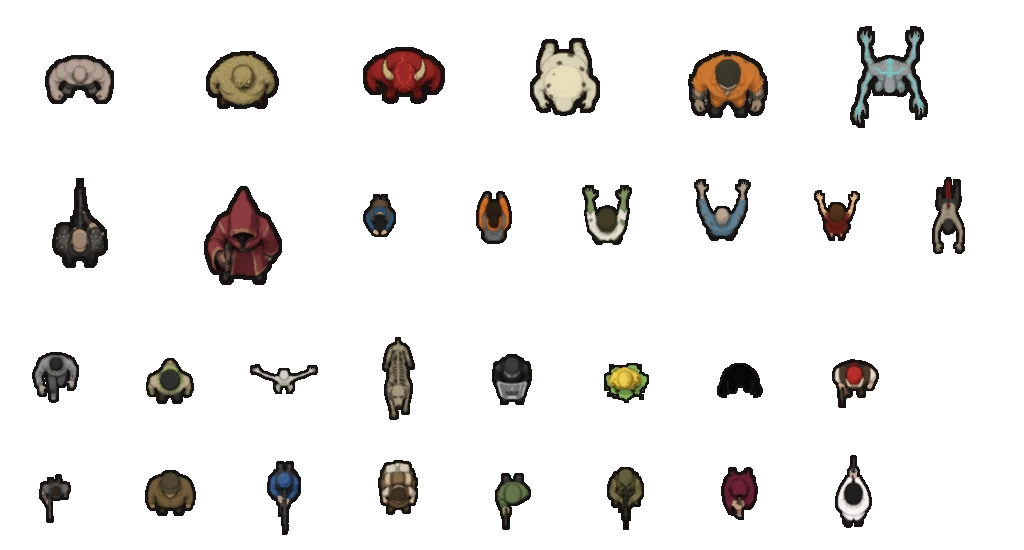
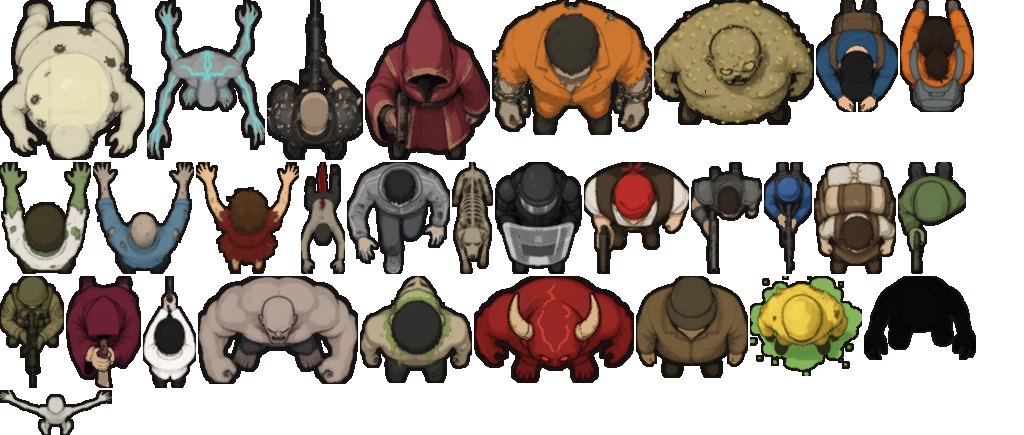
Guns drawn properly in the hands, muzzle-accurate shots, facing fixes
- Detailed top-down guns held in both hands: pistol slide, revolver cylinder,
  SMG/rifle magazines and red-dot, shotgun pump, sniper scope, launcher and
  bazooka tubes on the shoulder, crossbow limbs and string, flamethrower tank;
  guns kick back when fired
- Tracers and muzzle flashes start at the drawn muzzle at sprite height
- Characters are cropped to the solid figure (players were tiny) and each
  sprite's facing is corrected so everyone looks where they aim
- Shadows are the figure's own silhouette along the sun

diff --git a/game/sv/render.js b/game/sv/render.js
@@ -9,7 +9,7 @@ const V = {
 };
 
 // ── generated art (item icons, portraits, illustrations) ──────────────────
-const ART_V = 7; // bump when assets/ change so browsers refetch
+const ART_V = 9; // bump when assets/ change so browsers refetch
 const ART = { items: null, im: {}, por: null, pm: {}, scenes: {}, sceneSrc: {} };
 function loadArt() {
   if (typeof fetch !== 'function' || typeof Image === 'undefined') return;
@@ -423,7 +423,7 @@ function draw(dtReal) {
   // particles / tracers / floaters
   for (const t of V.tracers) {
     g.globalAlpha = 1 - t.t / t.life; g.strokeStyle = t.c === 2 ? '#bfe6ff' : t.c === 3 ? '#ff9a40' : '#ffe9a0'; g.lineWidth = t.c === 2 ? 3 : t.c === 3 ? 2.2 : 1.6;
-    g.beginPath(); g.moveTo(t.x1 * TILE, t.y1 * TILE - 14); g.lineTo(t.x2 * TILE, t.y2 * TILE - 14); g.stroke();
+    const oy = CHR.img ? 8 : 14; g.beginPath(); g.moveTo(t.x1 * TILE, t.y1 * TILE - oy); g.lineTo(t.x2 * TILE, t.y2 * TILE - oy); g.stroke();
   }
   g.globalAlpha = 1;
   for (const p of V.parts) drawPart(g, p);
@@ -438,7 +438,7 @@ function draw(dtReal) {
   g.textAlign = 'center';
   for (const e of viewEnts) drawEntLabel(g, e);
   for (const p of G.players) if (p && p.joined && !p.dead) {
-    g.font = 'bold 11px system-ui, sans-serif'; g.fillStyle = p.color; g.fillText(p.name, p.x * TILE, p.y * TILE - 46);
+    g.font = 'bold 11px system-ui, sans-serif'; g.fillStyle = p.color; g.fillText(p.name, p.x * TILE, p.y * TILE - (CHR.img ? 36 : 46));
     if (p.down) { g.fillStyle = '#ff6b5c'; g.fillText(`쓰러짐 ${Math.ceil(p.downT)}s`, p.x * TILE, p.y * TILE - 58); }
   }
   for (const n of V.dmgNums) {
@@ -1029,9 +1029,8 @@ function drawPlayer(g, p) {
     drawChar(g, pk, bx, by, p.angle + twist, 48, { walk: p.walk * 0.8, flash: p.flash > 0, down: p.down });
     if (!p.down) {
       if (ms) drawMeleeWeapon(g, p.wpn, bx * TILE + Math.cos(p.angle + ms.off) * 9, by * TILE - 8 + Math.sin(p.angle + ms.off) * 9, p.angle + ms.off, ms);
-      else { const a = p.angle + twist, hx = bx * TILE + Math.cos(a) * 8, hy = by * TILE - 8 + Math.sin(a) * 8;
-        g.strokeStyle = 'rgba(0,0,0,.6)'; g.lineWidth = gl[2] + 2; g.lineCap = 'butt'; g.beginPath(); g.moveTo(hx, hy); g.lineTo(hx + Math.cos(a) * gl[0], hy + Math.sin(a) * gl[0]); g.stroke();
-        g.strokeStyle = gl[1]; g.lineWidth = gl[2]; g.beginPath(); g.moveTo(hx, hy); g.lineTo(hx + Math.cos(a) * gl[0], hy + Math.sin(a) * gl[0]); g.stroke(); }
+      else { const a = p.angle + twist, kick = Math.max(0, p.fireT || 0) > 0 && WEAPONS[p.wpn].rate ? Math.min(1, p.fireT / WEAPONS[p.wpn].rate) * 3 : 0;
+        drawGun(g, p.wpn, bx * TILE - Math.cos(a) * kick, by * TILE - 8 - Math.sin(a) * kick, a); }
     }
     if (p.in && p.in.crouch && !p.down) { g.fillStyle = 'rgba(160,200,255,.7)'; g.font = '10px system-ui'; g.textAlign = 'center'; g.fillText('은신', p.x * TILE, p.y * TILE + 22); }
     return;
@@ -1051,6 +1050,27 @@ function drawPlayer(g, p) {
     if (!behind) drawMeleeWeapon(g, p.wpn, hx, hy, a, ms || { ext: 0, k: 0, trail: 0 });
   } else drawBody(g, bx, by, p.angle + twist, { r: 0.34, body: p.color, head: '#f0c9a0', hat: '#2a2a2a', walk: p.walk, flash: p.flash > 0, gun: true, gunLen: gl[0], gunCol: gl[1], gunW: gl[2], legs: '#2a2a3a', down: p.down });
   if (p.in && p.in.crouch && !p.down) { g.fillStyle = 'rgba(160,200,255,.7)'; g.font = '10px system-ui'; g.textAlign = 'center'; g.fillText('은신', p.x * TILE, p.y * TILE + 16); }
+}
+// ── guns seen from above, held in front of the body (muzzle distances match MUZZLE) ──
+function drawGun(g, wid, x, y, a) {
+  g.save(); g.translate(x, y); g.rotate(a);
+  const ol = 'rgba(12,10,8,.85)';
+  const R = (x0, y0, w, h, c, r = 1) => { g.fillStyle = ol; roundRect(g, x0 - 1, y0 - 1, w + 2, h + 2, r + 1); g.fill(); g.fillStyle = c; roundRect(g, x0, y0, w, h, r); g.fill(); };
+  const hand = (hx, hy) => { g.fillStyle = ol; g.beginPath(); g.arc(hx, hy, 3.4, 0, TAU); g.fill(); g.fillStyle = '#e0b890'; g.beginPath(); g.arc(hx, hy, 2.5, 0, TAU); g.fill(); };
+  switch (wid) {
+    case 'pistol': R(9, -2, 11, 4, '#2a2c30'); R(10, -1.2, 9, 1.4, '#4a4e54', 0); hand(10, 0); break;
+    case 'revolver': R(9, -2, 12, 4, '#3a3c40'); g.fillStyle = ol; g.beginPath(); g.arc(13, 0, 3.6, 0, TAU); g.fill(); g.fillStyle = '#6a6e74'; g.beginPath(); g.arc(13, 0, 2.6, 0, TAU); g.fill(); hand(10, 0); break;
+    case 'smg': R(4, -3, 15, 6, '#2a2c2e', 2); R(18, -1.2, 6, 2.4, '#1a1a1a', 0); R(10, 3, 3, 5, '#3a3a3a', 0); R(7, -1, 7, 2, '#4a4e54', 0); hand(6, 2); hand(14, -2); break;
+    case 'rifle': R(-4, -2.5, 8, 5, '#1e1e20', 2); R(4, -3, 16, 6, '#2a2e26', 2); R(19, -1.2, 12, 2.4, '#151515', 0); R(10, 3, 4, 6, '#2a2a2a', 0); R(8, -1.4, 4, 2.8, '#c84030', 0); hand(6, 2); hand(17, -2); break;
+    case 'shotgun': R(-5, -2.5, 10, 5, '#6a4426', 2); R(5, -2.5, 10, 5, '#2a2a2c', 1); R(14, -1.6, 18, 3.2, '#1c1c1e', 0); R(17, -3, 7, 6, '#7a5030', 2); hand(5, 2); hand(20, 0); break;
+    case 'sniper': R(-7, -2.5, 10, 5, '#3a3020', 2); R(3, -2.5, 14, 5, '#2a3020', 1); R(16, -1, 22, 2, '#151515', 0); R(5, -2.2, 12, 4.4, '#101214', 2); g.fillStyle = '#5ac8ff'; g.fillRect(16, -1.5, 1.5, 3); hand(4, 2); hand(14, -2); break;
+    case 'launcher': R(-10, -4, 44, 8, '#4a5a3a', 3); R(30, -5, 5, 10, '#2a3220', 1); R(-10, -5, 4, 10, '#2a3220', 1); R(6, -6.5, 5, 3, '#2a2a2a', 0); hand(4, 4); hand(14, 4); break;
+    case 'bazooka': R(-12, -5, 48, 10, '#556b3a', 4); R(32, -6, 5, 12, '#2e3820', 1); R(-12, -6, 5, 12, '#2e3820', 1); R(8, -8, 6, 4, '#2a2a2a', 0); g.fillStyle = 'rgba(255,255,255,.15)'; g.fillRect(-8, -4, 38, 2); hand(4, 5); hand(16, 5); break;
+    case 'crossbow': R(2, -2, 20, 4, '#6a4426', 1); g.strokeStyle = ol; g.lineWidth = 3.5; g.beginPath(); g.arc(17, 0, 11, -1.15, 1.15); g.stroke(); g.strokeStyle = '#3a3a3e'; g.lineWidth = 2; g.stroke(); g.strokeStyle = '#ddd'; g.lineWidth = 0.8; g.beginPath(); g.moveTo(21.5, -10); g.lineTo(9, 0); g.lineTo(21.5, 10); g.stroke(); R(9, -0.6, 17, 1.2, '#c8c8c8', 0); hand(6, 0); break;
+    case 'flamer': g.fillStyle = ol; g.beginPath(); g.arc(-6, 0, 6.5, 0, TAU); g.fill(); g.fillStyle = '#a03020'; g.beginPath(); g.arc(-6, 0, 5.5, 0, TAU); g.fill(); R(2, -3, 16, 6, '#3a3a3c', 2); R(17, -1.6, 11, 3.2, '#5a5a5e', 0); g.fillStyle = '#ff8a30'; g.beginPath(); g.arc(28, 0, 1.6, 0, TAU); g.fill(); hand(6, 2); hand(14, -2); break;
+    default: R(9, -2, 11, 4, '#2a2c30'); hand(10, 0);
+  }
+  g.restore();
 }
 // ── melee animation ─────────────────────────────────────────────────────────
 // sweep: slash across the arc; thrust: stab straight out; buzz: chainsaw held out, shaking
@@ -1150,7 +1170,7 @@ function drawEntLabel(g, e) {
 function drawPart(g, p) {
   const k = p.t / p.life, x = p.x * TILE, y = p.y * TILE;
   switch (p.k) {
-    case 'flash': { const r = p.big ? 13 : 8, fx2 = x + Math.cos(p.a) * 10, fy2 = y - 14 + Math.sin(p.a) * 6;
+    case 'flash': { const r = p.big ? 13 : 8, fx2 = x + Math.cos(p.a) * 3, fy2 = y - (CHR.img ? 8 : 14) + Math.sin(p.a) * 3;
       g.fillStyle = 'rgba(255,200,90,.55)'; g.beginPath(); g.arc(fx2, fy2, r * 1.6, 0, TAU); g.fill();
       g.fillStyle = '#fff6b0'; g.beginPath(); g.moveTo(fx2 + Math.cos(p.a) * r * 2.2, fy2 + Math.sin(p.a) * r * 2.2); g.lineTo(fx2 + Math.cos(p.a + 1.6) * r * 0.7, fy2 + Math.sin(p.a + 1.6) * r * 0.7); g.lineTo(fx2 + Math.cos(p.a - 1.6) * r * 0.7, fy2 + Math.sin(p.a - 1.6) * r * 0.7); g.fill();
       g.fillStyle = '#fff'; g.beginPath(); g.arc(fx2, fy2, r * 0.5, 0, TAU); g.fill(); break; }

diff --git a/game/sv/sim.js b/game/sv/sim.js
@@ -414,7 +414,7 @@ function gameOver(reason) {
 }
 
 // hitscan: walls stop it, player-side bullets pass over own structures, others hit them
-function hitscan(sh, x, y, a, range, dmg, pierce = 1, color) {
+function hitscan(sh, x, y, a, range, dmg, pierce = 1, color, vis) {
   const dx = Math.cos(a), dy = Math.sin(a);
   let structHit = null;
   const wallD = rayCells(x, y, dx, dy, range, (i, t) => {
@@ -440,12 +440,14 @@ function hitscan(sh, x, y, a, range, dmg, pierce = 1, color) {
   }
   if (structHit && hits.length < pierce) damageStruct(structHit, dmg, sh);
   else if (!hits.length && end < range && SR.chance(0.4)) fx({ k: 'spark', x: x + dx * end, y: y + dy * end });
-  fx({ k: 'tr', x1: +x.toFixed(2), y1: +y.toFixed(2), x2: +(x + dx * end).toFixed(2), y2: +(y + dy * end).toFixed(2), c: color || 0 });
+  const vx = vis && end > vis ? x + dx * vis : x, vy = vis && end > vis ? y + dy * vis : y;
+  fx({ k: 'tr', x1: +vx.toFixed(2), y1: +vy.toFixed(2), x2: +(x + dx * end).toFixed(2), y2: +(y + dy * end).toFixed(2), c: color || 0 });
 }
 
 function fireGun(sh, wid, a, opt = {}) {
   const w = WEAPONS[wid];
   const mx = sh.x + Math.cos(a) * 0.45, my = sh.y + Math.sin(a) * 0.45;
+  const vis = (sh.cat === 'player' ? (MUZZLE[wid] || 20) : 18) / TILE - 0.45; // tracer starts at the drawn muzzle
   const dmg = (sh.cat === 'player' ? wstat(wid, 'dmg') * (1 + 0.08 * perk(sh, 'aim')) : w.dmg) * (opt.dmgMul || 1);
   const mine = sh.cat === 'player';
   const spread = w.spread * (opt.spreadMul || 1) * (sh.in && sh.in.crouch ? 0.6 : 1) * (mine && hasSkill(wid, 'tight') ? 0.6 : 1) * (mine ? 1 - 0.08 * perk(sh, 'aim') : 1);
@@ -463,10 +465,10 @@ function fireGun(sh, wid, a, opt = {}) {
     const n = w.pellets || 1;
     for (let k = 0; k < n; k++) {
       const aa = a + (SR.f() + SR.f() - 1) * spread;
-      hitscan(sh, mx, my, aa, w.range * rangeK * (n > 1 ? SR.r(0.75, 1) : 1), dmg, (w.pierce || 1) + pierceAdd, wid === 'sniper' ? 2 : mine && hasSkill(wid, 'incend') ? 3 : 0);
+      hitscan(sh, mx, my, aa, w.range * rangeK * (n > 1 ? SR.r(0.75, 1) : 1), dmg, (w.pierce || 1) + pierceAdd, wid === 'sniper' ? 2 : mine && hasSkill(wid, 'incend') ? 3 : 0, vis);
     }
   }
-  fx({ k: 'flash', x: +mx.toFixed(2), y: +my.toFixed(2), a: +a.toFixed(2), pid: sh.cat === 'player' ? sh.pid : -1, w: wid });
+  fx({ k: 'flash', x: +(mx + Math.cos(a) * vis).toFixed(2), y: +(my + Math.sin(a) * vis).toFixed(2), a: +a.toFixed(2), pid: sh.cat === 'player' ? sh.pid : -1, w: wid });
   sfxAt(wid, sh.x, sh.y);
   makeNoise(sh.x, sh.y, w.noise * (sh.in && sh.in.crouch ? 0.7 : 1), sh);
 }

diff --git a/game/sv/terrain.js b/game/sv/terrain.js
@@ -266,7 +266,11 @@ function drawChar(g, key, x, y, ang, size, o = {}) {
     g.globalAlpha = 1; o = { ...o, alpha: (o.alpha === undefined ? 1 : o.alpha) * 0.78, scale: (o.scale || 1) * 0.9 };
   }
   const k = size / Math.max(r[2], r[3]), w = r[2] * k * (o.scale || 1) * (1 + bob * 0.035), h = r[3] * k * (o.scale || 1) * (1 - bob * 0.02);
-  g.fillStyle = 'rgba(0,0,0,.32)'; g.beginPath(); g.ellipse(px + 3, py + 11, w * 0.42, w * 0.22, 0, 0, TAU); g.fill();
+  { // the figure's own silhouette, cast a few px along the sun
+    const [sx2, sy2] = sunOffset(4);
+    g.save(); g.translate(px + sx2, py + sy2 + 2); g.rotate(ang + Math.PI / 2 + (r[4] === 2 ? Math.PI : 0) + (o.down ? 1.4 : 0)); g.globalAlpha = 0.3 * (o.alpha === undefined ? 1 : o.alpha);
+    g.drawImage(chrTint(key, '#000000'), -w / 2, -h / 2, w, h); g.restore();
+  }
   g.save();
   if (r[4] === 1 && !o.down) { // upright 3/4 sprite: stand it up, mirror toward the facing side, lean with the stride
     const flip = Math.cos(ang) < -0.15 ? -1 : 1;

diff --git a/game/sv/defs.js b/game/sv/defs.js
@@ -73,6 +73,8 @@ const PERKS_LV = {
   endure: { name: '지구력',   desc: '기력 소모 -15%, 허기 -10%' },
 };
 const PERK_MAX = 5;
+// distance in px from a top-down character's centre to its gun's muzzle (matches drawGun)
+const MUZZLE = { pistol: 20, revolver: 21, smg: 24, shotgun: 32, rifle: 31, sniper: 38, launcher: 34, bazooka: 36, crossbow: 26, flamer: 28 };
 const xpNeed = lvl => 60 + lvl * 40;
 // weapon skills: one-time unlocks per weapon at the workbench
 const WSKILLS = {

diff --git a/tools/art-gen/pack4.py b/tools/art-gen/pack4.py
@@ -1,4 +1,5 @@
 """Pack art set v3: top-down character sprites into assets/chr.webp and add them to art.json."""
+import numpy as np
 import os, sys, json
 sys.path.insert(0, os.path.join(os.path.dirname(os.path.abspath(__file__)), '..', 'v2'))
 sys.path.insert(0, os.path.dirname(os.path.abspath(__file__)))
@@ -43,7 +44,10 @@ imgs = {}
 for k in CHARS:
     f = os.path.join(OUT, 'chr_' + k + '.png')
     if k in SKIP or not os.path.exists(f): continue
-    try: im = cutout(Image.open(f)); bb = im.getbbox()
+    try:
+        im = cutout(Image.open(f)); a_ = np.array(im)[..., 3]
+        a_[a_ < 200] = 0  # crop to the solid figure, not faint background remnants
+        bb = Image.fromarray(a_).getbbox()
     except OSError: continue  # still being written
     if not bb: continue
     im = im.crop(bb); side = 160 if k in BIG else 112
